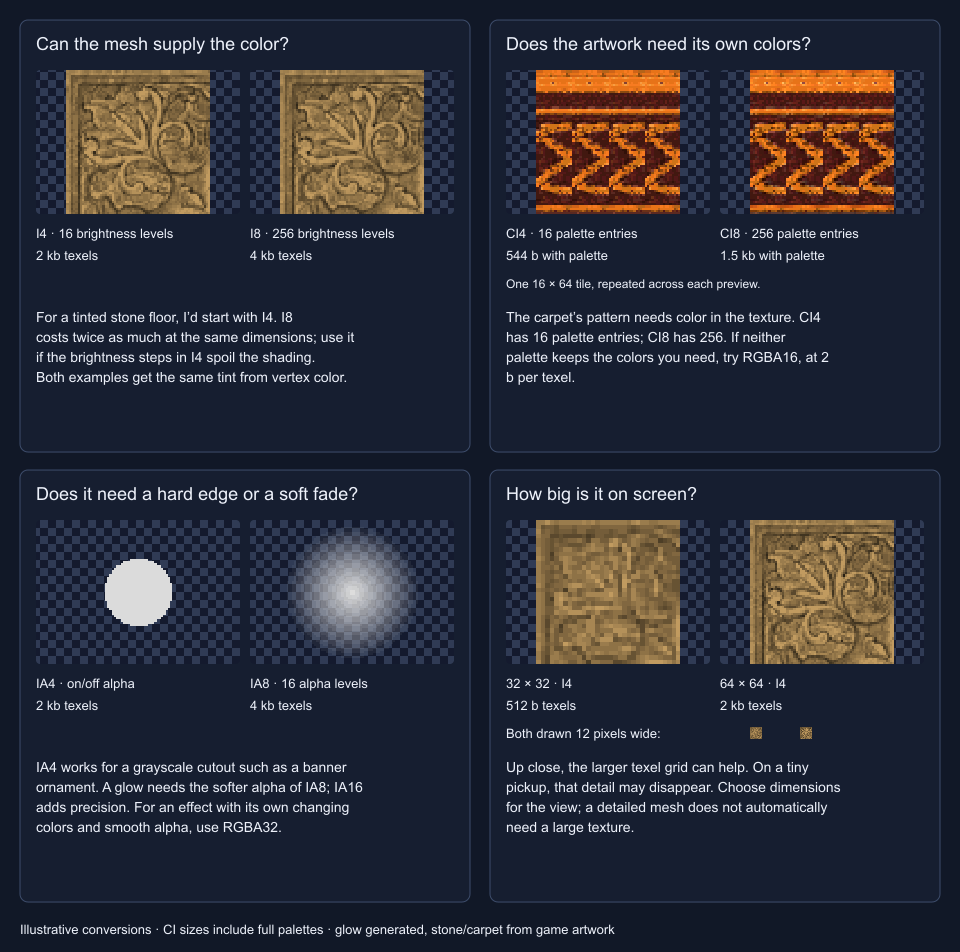
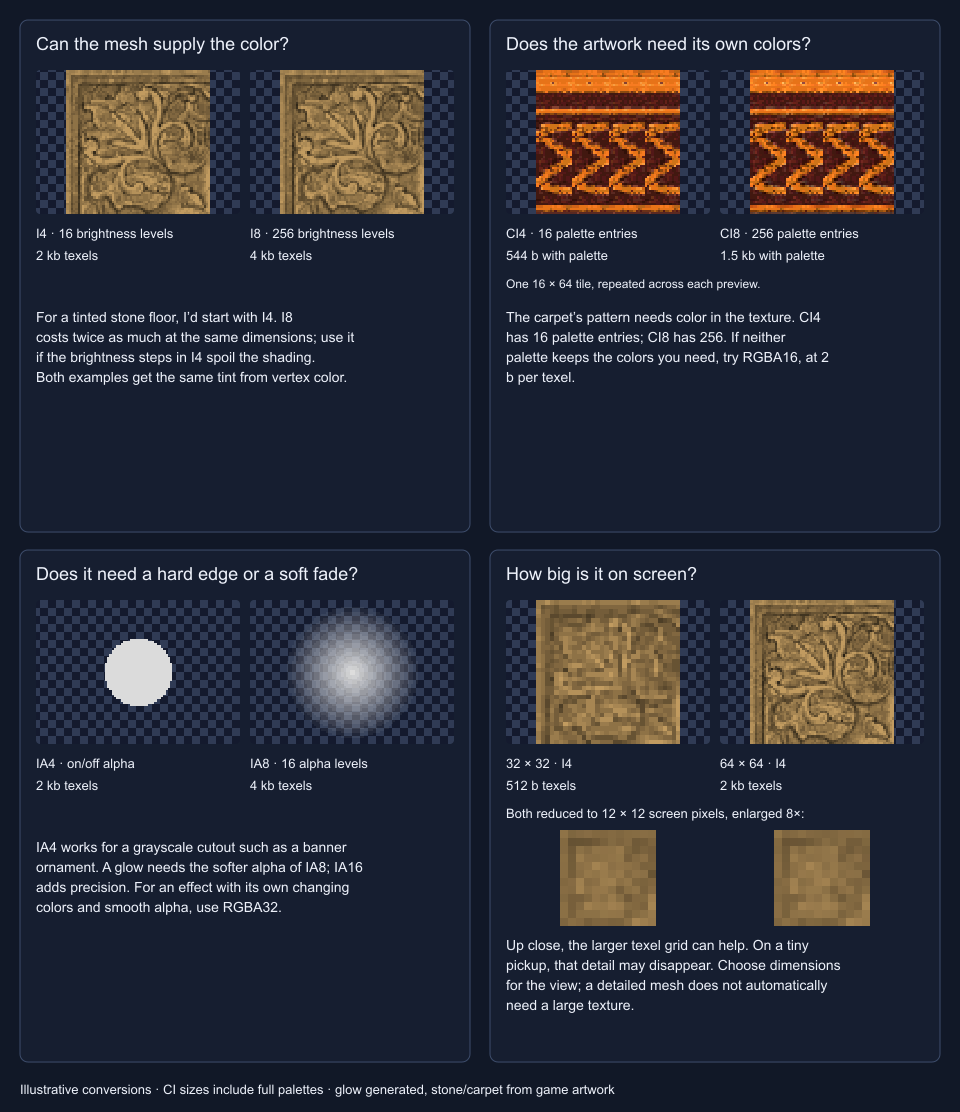
Improve blog code highlighting and texture examples

Changed region(s): [[0.0312, 0.4569, 0.9688, 0.9139], [0.0312, 0.0305, 0.9688, 0.4265], [0.0312, 0.9443, 0.9688, 1.0]]

diff --git a/app/blog/[slug]/page.module.css b/app/blog/[slug]/page.module.css
@@ -20,6 +20,12 @@
 .prose code { font-family: var(--font-mono); font-size: 0.83em; background: var(--bg-raised); padding: 0.16em 0.35em; border-radius: 4px; }
 .prose pre { background: var(--bg-raised); border: 1px solid var(--border); padding: 1.25rem; border-radius: 10px; overflow-x: auto; line-height: 1.7; }
 .prose pre code { padding: 0; background: transparent; font-size: 0.82rem; white-space: pre; }
+.prose pre :is(:global(.hljs-comment), :global(.hljs-quote)) { color: var(--code-comment); }
+.prose pre :is(:global(.hljs-keyword), :global(.hljs-selector-tag), :global(.hljs-meta)) { color: var(--code-keyword); }
+.prose pre :is(:global(.hljs-string), :global(.hljs-regexp), :global(.hljs-addition)) { color: var(--code-string); }
+.prose pre :is(:global(.hljs-number), :global(.hljs-literal), :global(.hljs-symbol), :global(.hljs-deletion)) { color: var(--code-number); }
+.prose pre :is(:global(.hljs-type), :global(.hljs-built_in), :global(.hljs-attr)) { color: var(--code-type); }
+.prose pre :is(:global(.hljs-title), :global(.hljs-name)) { color: var(--link); }
 .prose :global(.article-table) { overflow-x: auto; margin-block: 2rem; }
 .prose table { width: 100%; min-width: 32rem; border-collapse: collapse; font-size: 0.9rem; overflow-wrap: normal; }
 .prose :is(th,td) { text-align: left; padding: 0.8rem 1rem; border-bottom: 1px solid var(--border); }

diff --git a/content/blog/n64-texture-formats/FormatChoiceGuide.module.css b/content/blog/n64-texture-formats/FormatChoiceGuide.module.css
@@ -9,9 +9,11 @@
 .sample strong { font-size: 0.75rem; line-height: 1.5; }
 .sample > span { color: var(--text-dim); font-size: 0.75rem; }
 .card p { margin: 0.9rem 0 0 !important; font-size: 0.85rem; line-height: 1.65; }
-.smallView { display: flex; align-items: center; gap: 1rem; margin-top: 0.75rem; color: var(--text-dim); font-size: 0.75rem; }
+.smallView { display: flex; flex-direction: column; gap: 0.75rem; margin-top: 1rem; color: var(--text-dim); font-size: 0.75rem; }
+.screenSamples { display: grid; grid-template-columns: repeat(2, minmax(0, 1fr)); gap: 0.8rem; }
+.screenSamples > div { display: flex; flex-direction: column; align-items: center; gap: 0.4rem; }
 .repeatNote { margin-top: 0.75rem; color: var(--text-dim); font-size: 0.7rem; line-height: 1.6; }
-.smallView img { display: block; flex: 0 0 12px; width: 12px; height: 12px; image-rendering: pixelated; border-radius: 0; }
+.smallView img { display: block; width: 96px; height: 96px; image-rendering: pixelated; border-radius: 0; }
 .guide figcaption { margin-top: 1rem; font-size: 0.75rem; line-height: 1.6; color: var(--text-dim); }
 @media (max-width: 700px) { .grid { grid-template-columns: 1fr; } .card { padding: 1rem; } }
 @media print { .card { break-inside: avoid; } }

diff --git a/content/blog/n64-texture-formats/FormatExplorer.tsx b/content/blog/n64-texture-formats/FormatExplorer.tsx
@@ -68,8 +68,6 @@ export default function FormatExplorer() {
       </div>
       <p className={styles.explanation}>{spec.detail}</p>
       {converted && converted.palette.length > 0 && <div className={styles.swatches} aria-label={`Generated palette with ${converted.palette.length} entries`}>{converted.palette.map((color, i) => <span key={i} title={`RGBA ${color.join(', ')}`} style={{ backgroundColor: `rgba(${color[0]},${color[1]},${color[2]},${color[3] / 255})` }} />)}</div>}
-      <p className={styles.budget}>At {sample.width} × {sample.height}, {format} needs <strong>{formatBytes(budget.texels)}</strong> of texel data: {budget.fits ? 'it fits' : 'it exceeds'} the <strong>{formatBytes(budget.capacity)}</strong> available for texels{budget.paletteBytes ? ' when the upper 2 kb of TMEM is reserved for palette lookup' : ' in TMEM'}. This comparison assumes one tile, with no row padding, mipmaps, or other resident textures.</p>
     </div>
-    <figcaption>Illustrative conversions with texel alpha applied where available. CI uses generated RGBA16 palettes; YUV16 is opaque and approximates BT.601 4:2:2. Filtering, lighting, and blending can change the result on hardware.</figcaption>
   </figure>;
 }

diff --git a/content/blog/n64-texture-formats/FormatChoiceGuide.tsx b/content/blog/n64-texture-formats/FormatChoiceGuide.tsx
@@ -18,8 +18,11 @@ export default function FormatChoiceGuide() {
       })}</div>
       {choice.id === 'color' && <div className={styles.repeatNote}>One 16 × 64 tile, repeated across each preview.</div>}
       {choice.id === 'resolution' && <div className={styles.smallView}>
-        <span>Both drawn 12 pixels wide:</span>
-        {choice.samples.map((sample) => <Image key={sample.file} src={`${assetRoot}/${sample.file}`} alt={`${sample.width} × ${sample.height} source at a twelve-pixel screen footprint`} width={12} height={12} unoptimized />)}
+        <span>Both reduced to 12 × 12 screen pixels, enlarged 8×:</span>
+        <div className={styles.screenSamples}>{choice.samples.map((sample) => <div key={sample.file}>
+          <Image src={`${assetRoot}/${sample.file.replace('.png', '-screen.png')}`} alt={`${sample.width} × ${sample.height} source reduced to twelve by twelve pixels, then enlarged eight times for inspection`} width={96} height={96} unoptimized />
+          <span>{sample.width} × {sample.height} source</span>
+        </div>)}</div>
       </div>}
       <p>{choice.description}</p>
     </div>)}</div>

diff --git a/mdx-components.tsx b/mdx-components.tsx
@@ -1,11 +1,24 @@
 import type { MDXComponents } from 'mdx/types';
 import type { ComponentPropsWithoutRef } from 'react';
+import NowPreviewLink from '@/components/NowPreviewLink';
+import { projects } from '@/data/projects';
+
+function ArticleLink({ href, children, ...props }: ComponentPropsWithoutRef<'a'>) {
+  const project = projects.find((project) => href === `/projects/${project.slug}/`);
+  if (project && href) return <NowPreviewLink href={href} preview={{
+    title: project.title,
+    description: project.shortBody,
+    image: project.thumbnail,
+    label: 'Project',
+  }}>{children}</NowPreviewLink>;
+  return <a href={href} {...props}>{children}</a>;
+}
 
 function Table(props: ComponentPropsWithoutRef<'table'>) {
   return <div role="region" aria-label="Article table" tabIndex={0} className="article-table"><table {...props} /></div>;
 }
 
-const components: MDXComponents = { table: Table };
+const components: MDXComponents = { table: Table, a: ArticleLink };
 
 export function useMDXComponents(): MDXComponents {
   return components;

diff --git a/styles/tokens.css b/styles/tokens.css
@@ -26,6 +26,11 @@
   --text-dim: #9aa5c4;
   --text-faint: #7a83a3;
   --link: #8fb0ff;
+  --code-comment: #85b991;
+  --code-keyword: #c5a6ff;
+  --code-string: #b5d28a;
+  --code-number: #eab782;
+  --code-type: #82cbd2;
 
   /* Shared alpine palette for the header horizon and footer landscape. */
   --alpine-distant: #305181;
@@ -72,6 +77,11 @@
   --text-dim: #4a5578;
   --text-faint: #657094;
   --link: #2e50a2;
+  --code-comment: #386344;
+  --code-keyword: #713db4;
+  --code-string: #486526;
+  --code-number: #9a4c16;
+  --code-type: #176770;
   --alpine-distant: #a6bdd7;
   --alpine-peak: #8fa9c8;
   --alpine-ridge: #6685a6;
@@ -102,6 +112,11 @@
     --text-dim: #333;
     --text-faint: #555;
     --link: #000;
+    --code-comment: #444;
+    --code-keyword: #000;
+    --code-string: #000;
+    --code-number: #000;
+    --code-type: #000;
     --brand-blue-glow: #333;
     color-scheme: light;
   }
